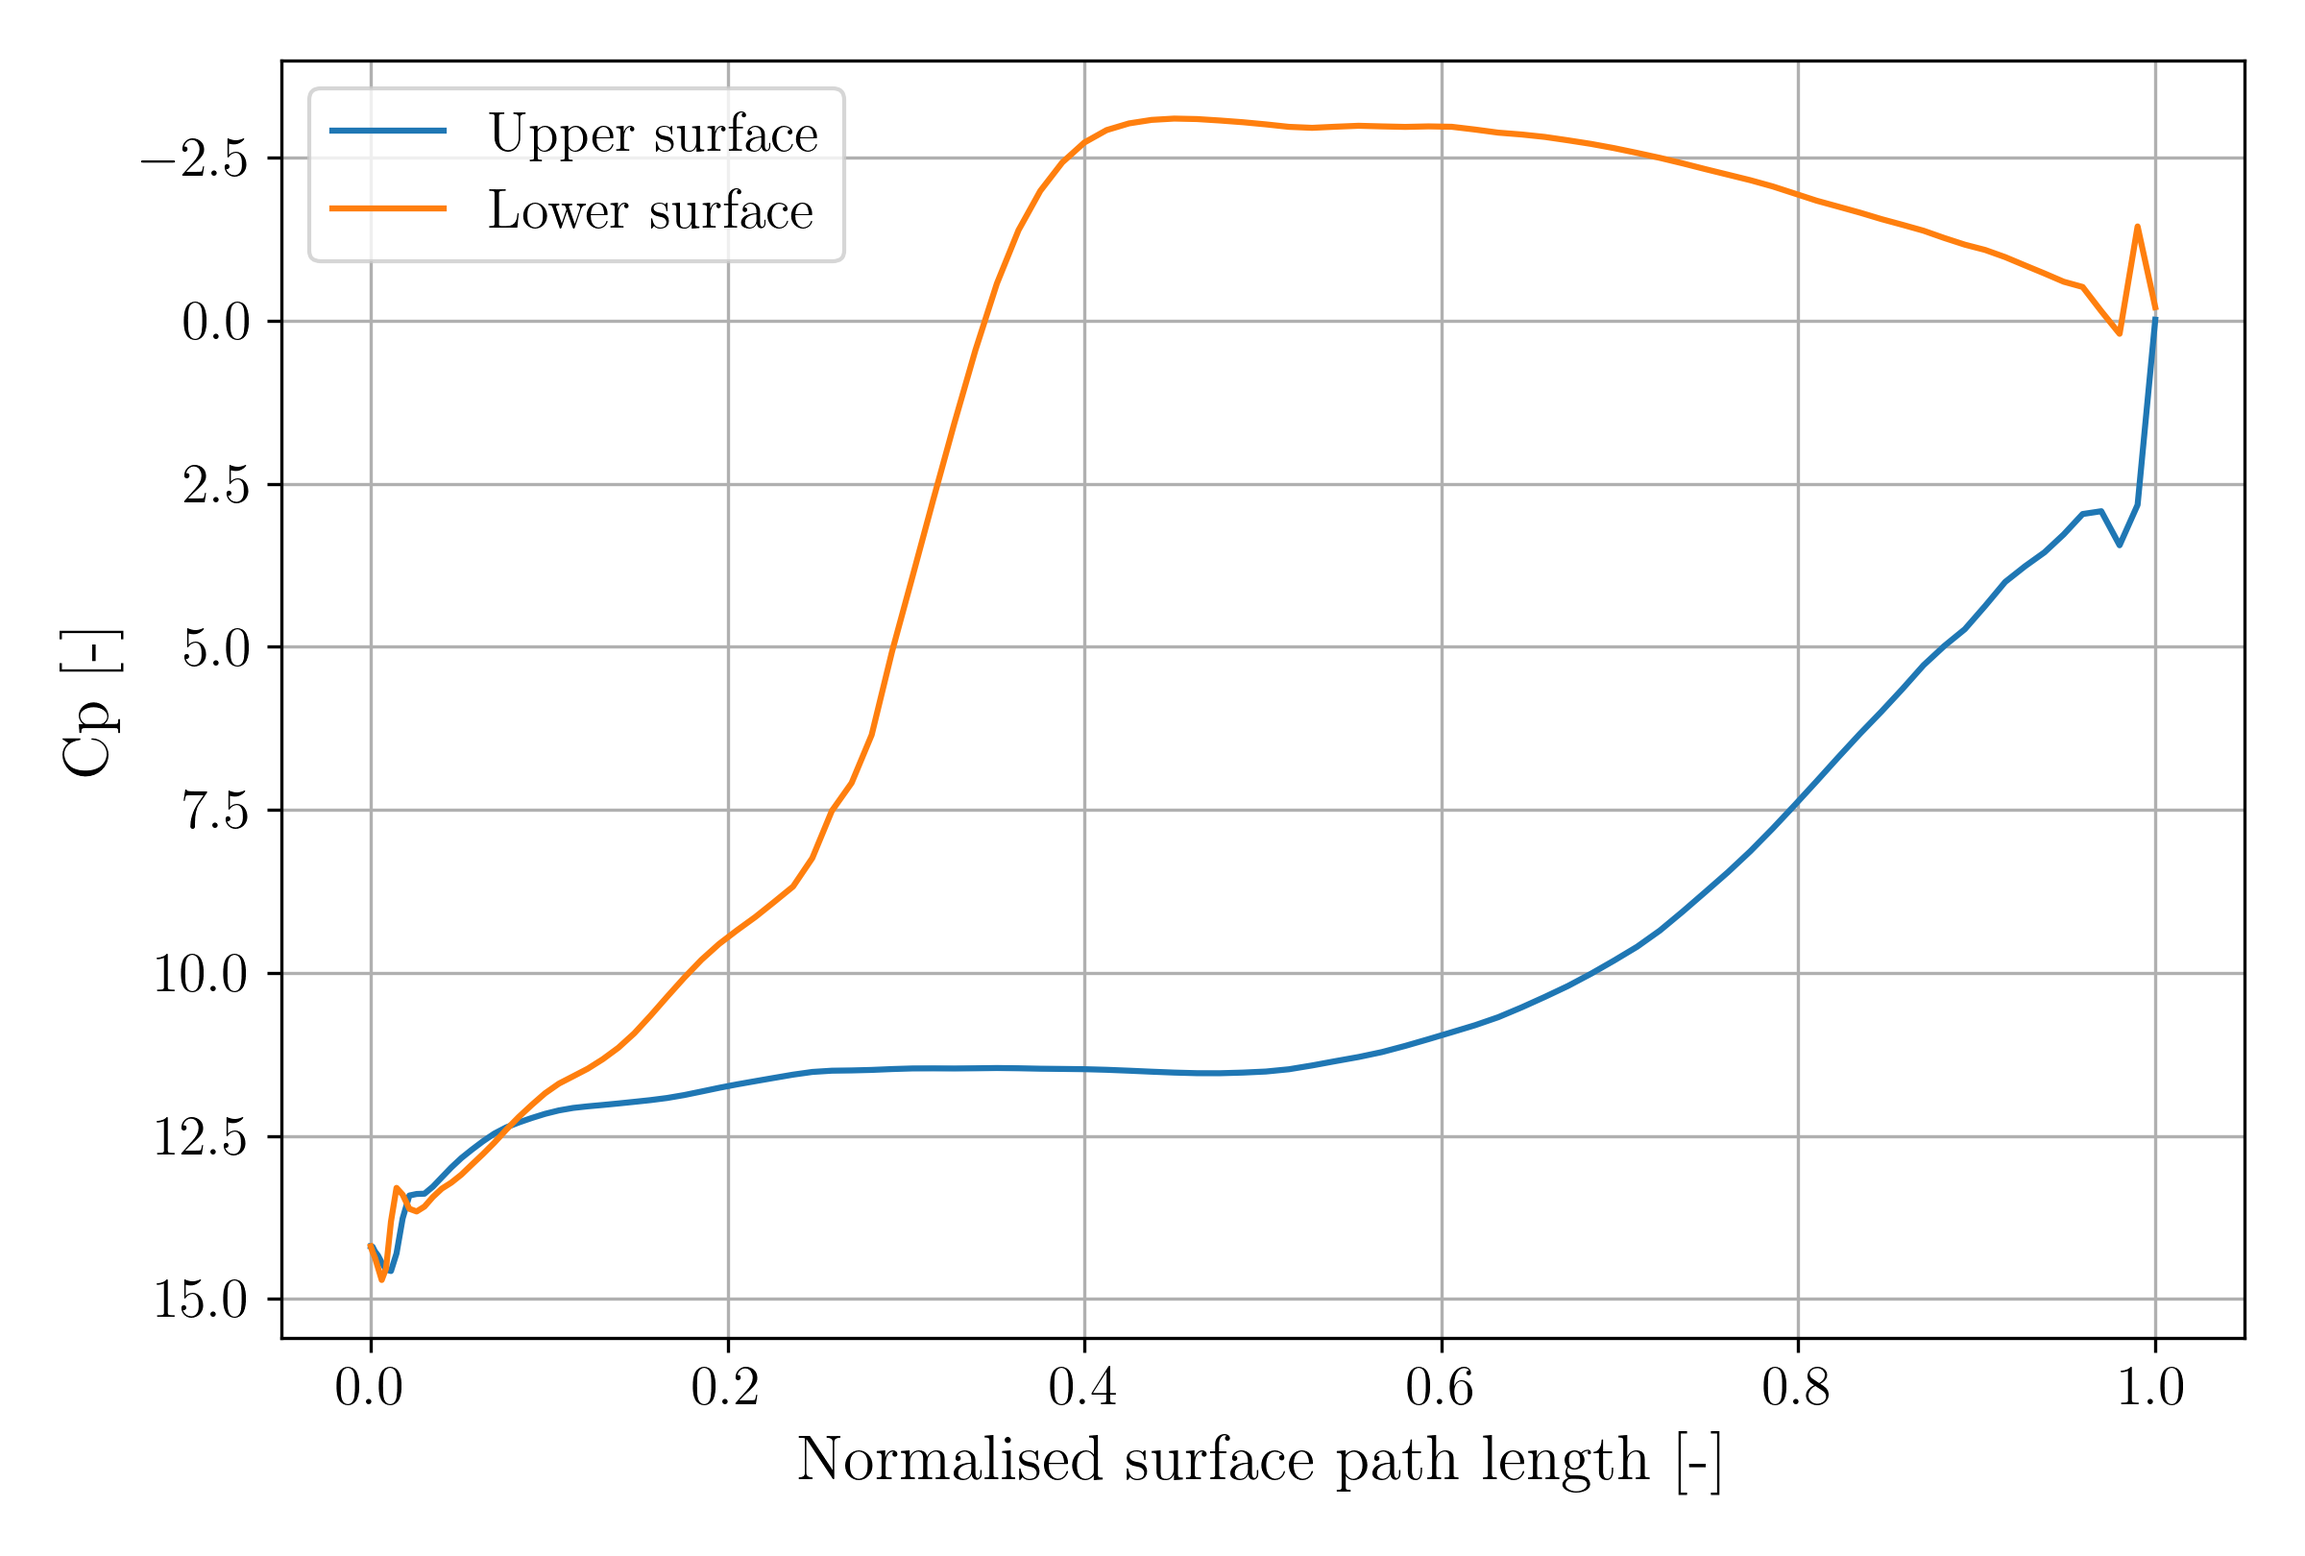
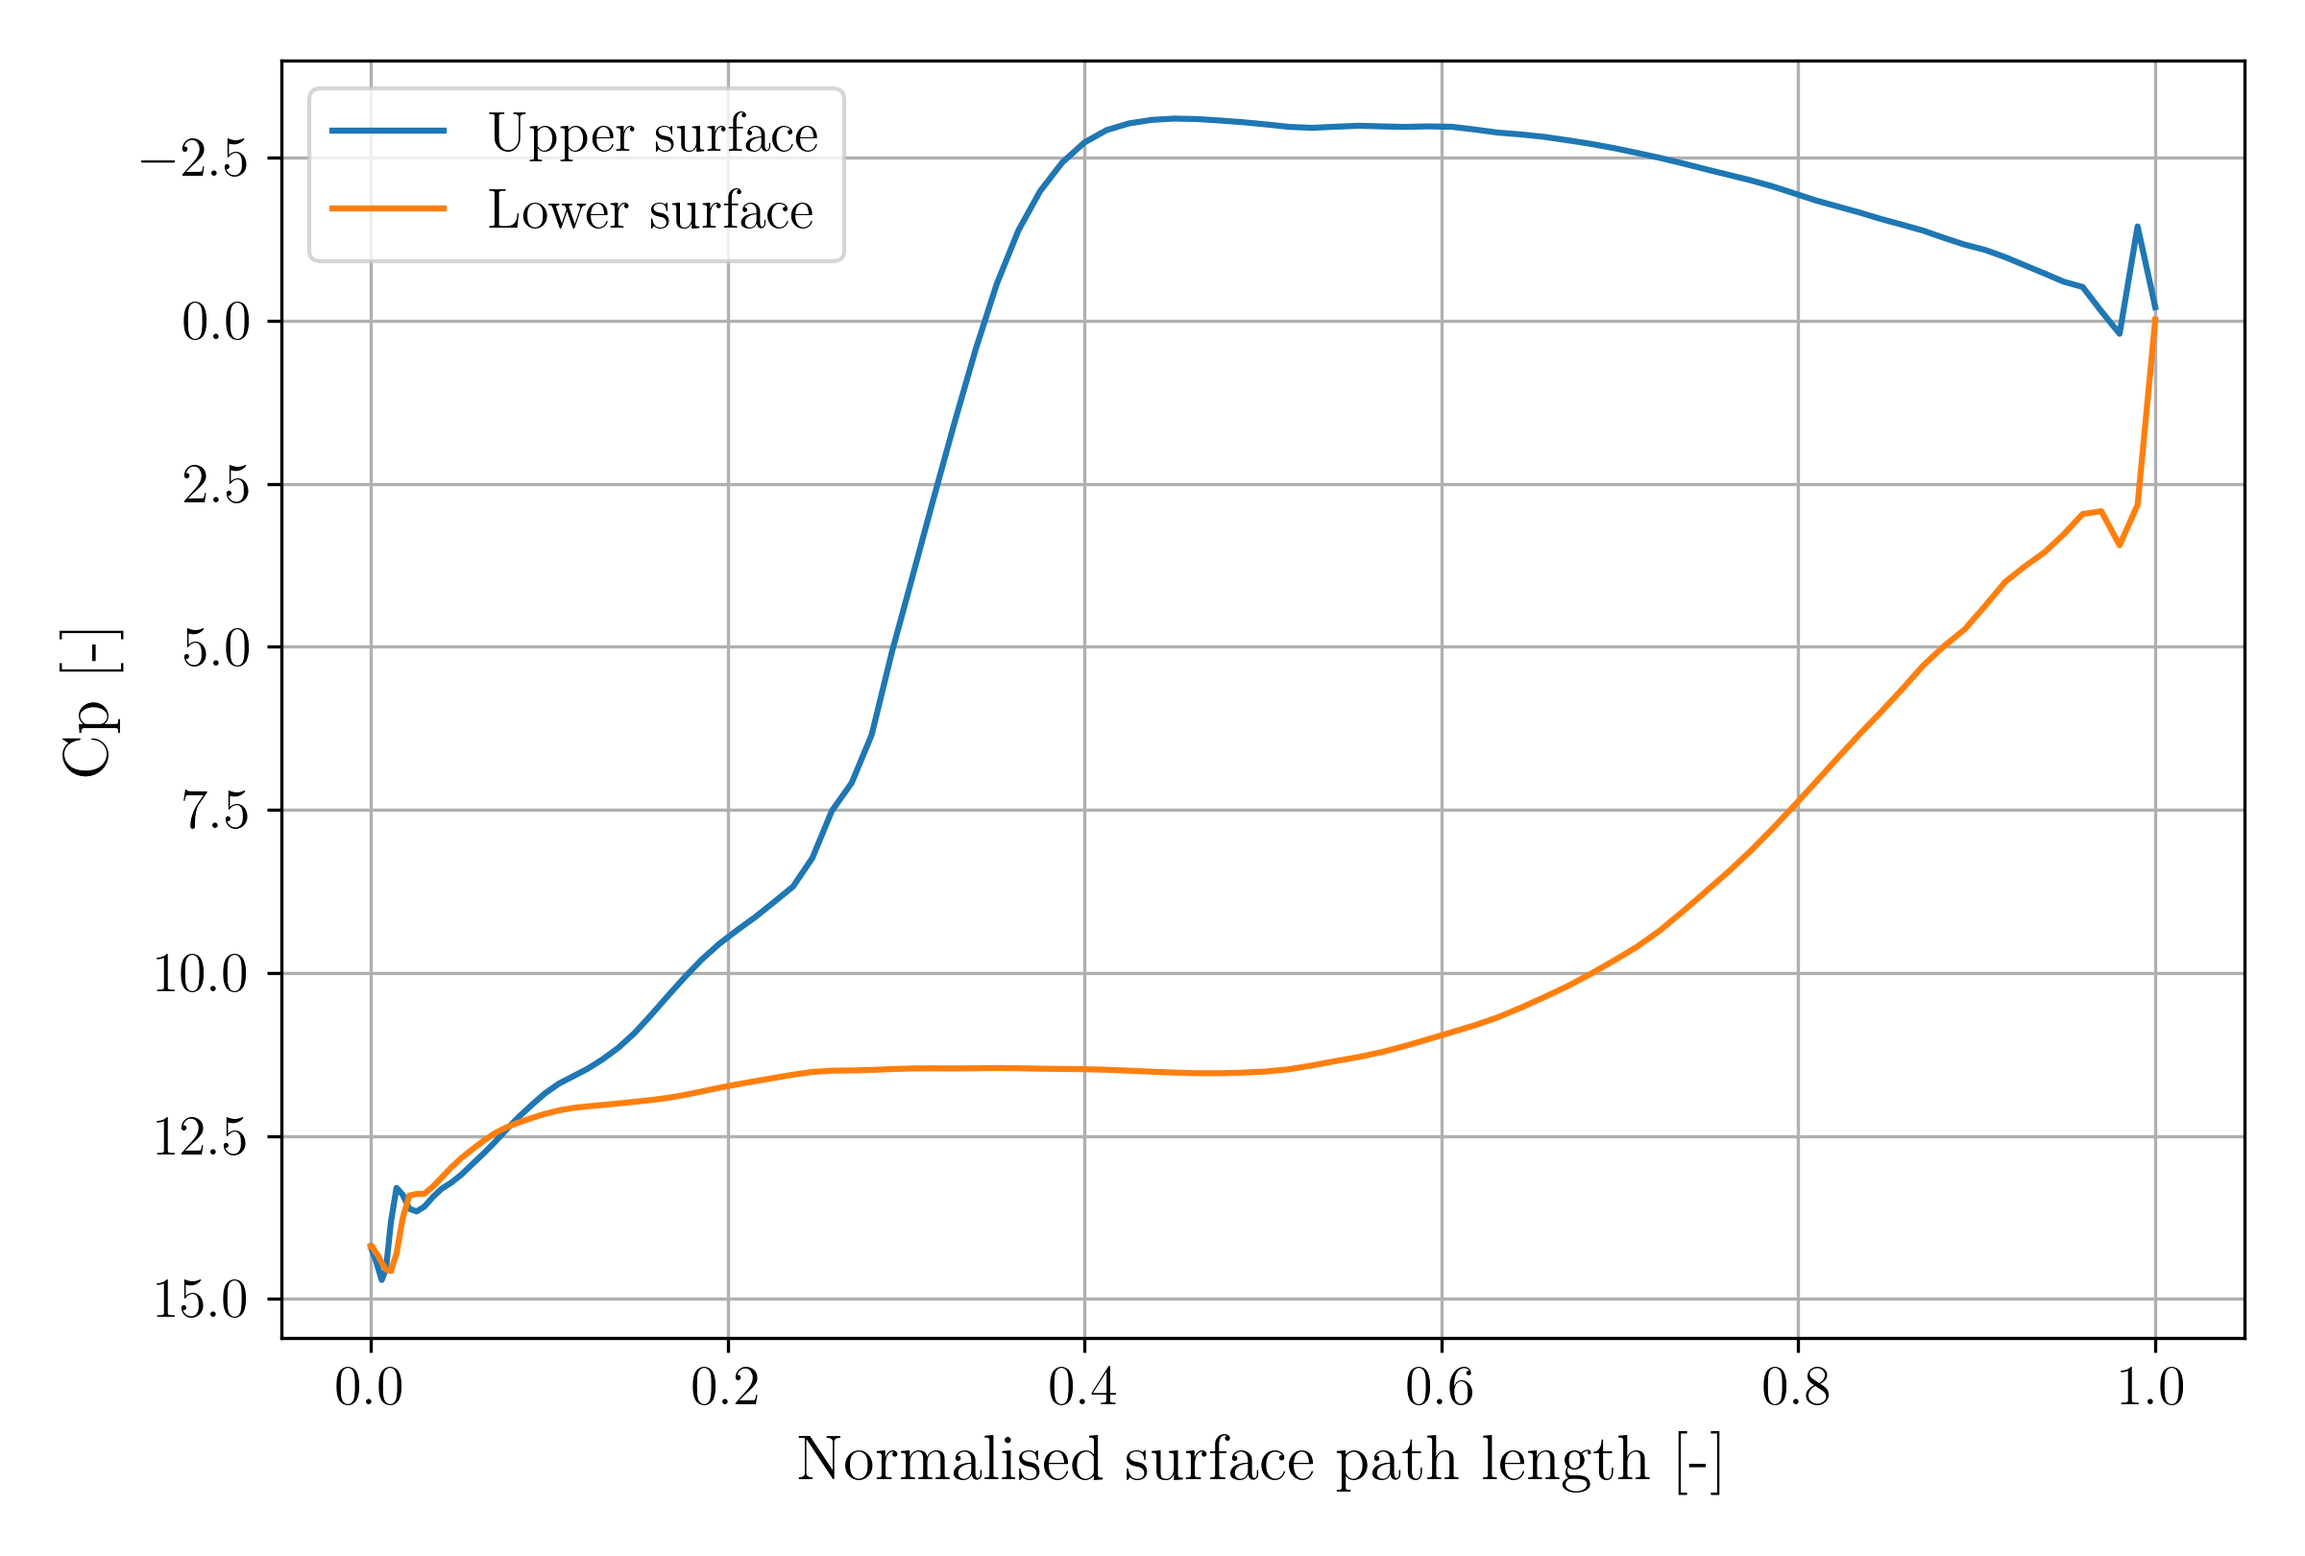
fixed turbine surfaces to be the right way tround

diff --git a/report/final/final.tex b/report/final/final.tex
@@ -121,7 +121,7 @@ The current global timestep is calculated from the global minimum cell size and 
 If a steady state solution is all that is required then convergence can be accelerated by using the local timestep for each cell.
 This would be calculated below
 \begin{equation}
-    \Delta t = \frac{l_{min}{a + v}
+    \Delta t = \frac{l_{min}}{a + v}
 \end{equation}
 Where $l_{min}$ is the minimum between the cell length and height, $a$ is the local speed of sound, and $v$ is the local velocity of the fluid.
 The local timesteps are then updated every 10 iterations.
@@ -275,7 +275,7 @@ While this marginally increases the time per iteration, it reduces the number of
         \caption{}
         \label{fig:turbine_h_surface_cp}
     \end{subfigure}
-    \caption{Turbine\_c test case results}
+    \caption{Turbine\_h test case results}
 \end{figure}
 
 \subsection{Effort vs Accuracy}
@@ -292,7 +292,7 @@ Why?
 
 \subsection{Turbine}
 
-The turbine case had very similar mesh geometry to 
+The two turbine 
 
 \section{Summary}
 

diff --git a/postprocessing/plot_airfoil_cp.py b/postprocessing/plot_airfoil_cp.py
@@ -203,9 +203,9 @@ def main():
     
     else:
         cut = cut_j(gs[0], 0)
-        xs_u, xs_l = separate(cut['x'])
-        ys_u, ys_l = separate(cut['y'])
-        cpup, cplo = separate(cut['cp'])
+        xs_l, xs_u = separate(cut['x'])
+        ys_l, ys_u = separate(cut['y'])
+        cplo, cpup = separate(cut['cp'])
 
     lens_u = np.cumsum(np.sqrt(np.diff(xs_u)**2 + np.diff(ys_u)**2))
     lens_l = np.cumsum(np.sqrt(np.diff(xs_l)**2 + np.diff(ys_l)**2))
